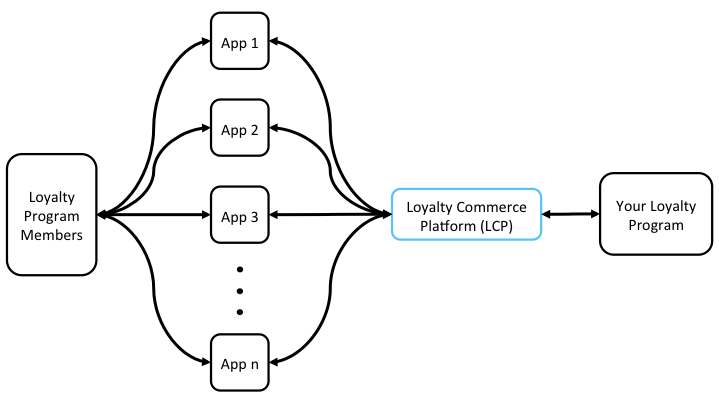
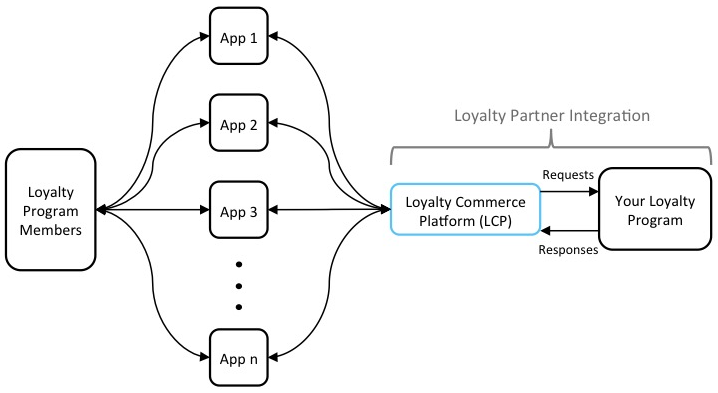
Add LPAPI diagram and update intro

diff --git a/documentation/app/static/documents/lp-reference.md b/documentation/app/static/documents/lp-reference.md
@@ -7,18 +7,22 @@ This document describes the RESTful API services a Loyalty Partner can use to co
 
 ## Introducing the Loyalty Partner API
 
-As a Loyalty Partner (LP), you can integrate with the LCP with four simple calls.
+As a Loyalty Partner (LP), you can integrate with the LCP and all its applications with four simple calls.
 
 1. Member Validation
 1. Credit/Debit Posting
 1. Transfer Points to/from a member's account
 1. Transaction Retry (posting or transfer)
 
+![LP API](static/images/lp-overview.png)
+
 When an application executes a member validation, credit, or debit operation to you (the Loyalty Partner) via the LCP, the LCP will find the pre-configured URL for your loyalty program's API and that specific operation, and send an HTTP request to that URL.
 
-A reference implementation for the LP API's member validation and credit/debit postings can be found in the [Loyalty Commerce Platform Github repository](https://github.com/Points/Loyalty-Commerce-Platform/tree/master/samples/java/lpapi-reference-implementation). Our example web server will be "http://application.herokuapp.com" below.
+In a typical Buy transaction, an MV will precede a credit posting as illustrated.
 
-![LP API](static/images/lp-overview.png)
+![LP API - Buy example](static/images/lp-api-buy.png)
+
+A reference implementation for the LP API's member validation and credit/debit postings can be found in the [Loyalty Commerce Platform Github repository](https://github.com/Points/Loyalty-Commerce-Platform/tree/master/samples/java/lpapi-reference-implementation). Our example web server will be "http://application.herokuapp.com" below.
 
 ## Validate a Member
 
